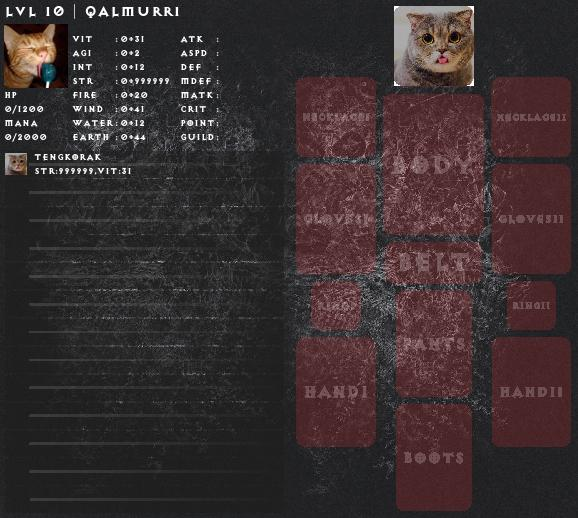
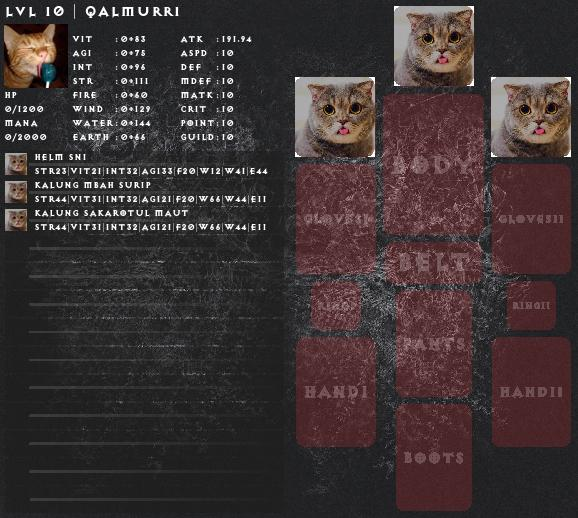
Add files via upload

diff --git a/cogs/commands/profile.py b/cogs/commands/profile.py
@@ -1,3 +1,8 @@
+
+
+
+
+
 import discord
 from discord import app_commands
 from discord.ext import commands
@@ -62,24 +67,70 @@ class profile(commands.Cog):
                     if check is not None and check :
                         with Image.open("assets/rpg/profile/default2.jpg") as a:
                             username = interaction.user.name
-
-                            e = ImageFont.truetype("assets/font/Diablo Heavy.ttf", 16)
-                            c = ImageFont.truetype("assets/font/Diablo Heavy.ttf", 10)
-
                             avatar = interaction.user.display_avatar
                             ava = Image.open(requests.get(avatar, stream=True).raw)
                             a.paste(ava.resize((64, 64)), (4, 24))
                             b = ImageDraw.Draw(a)
+                            e = ImageFont.truetype("assets/font/Diablo Heavy.ttf", 16)
+                            c = ImageFont.truetype("assets/font/Diablo Heavy.ttf", 10)
 
-                            usehead = player.get("game", {}).get("rpg", {}).get("use", {}).get("head", {}).get("name", None)
-                            headatk = player.get("game", {}).get("rpg", {}).get("use", {}).get("head", {}).get("str", None)
-                            headvit = player.get("game", {}).get("rpg", {}).get("use", {}).get("head", {}).get("vit", None)
-                            if usehead is not None:
-                                itemhead = Image.open(f"assets/rpg/item/head/{usehead}.png")
-                                iconhead = Image.open(f"assets/rpg/item/head/{usehead}.png")
-                                a.paste(itemhead.resize((80, 80)), (394, 6))
-                                a.paste(iconhead.resize((22, 22)), (5, 153))
-                                b.text((34, 151), f"{usehead}\nSTR:{headatk},VIT:{headvit} ", font=c, fill="white")
+                            head_data = player.get("game", {}).get("rpg", {}).get("use", {}).get("head", {})
+                            head_id = head_data.get("id_item", None)
+                            head_name = head_data.get("name", None)
+                            head_str = head_data.get("str", 0)
+                            head_vit = head_data.get("vit", 0)
+                            head_int = head_data.get("int", 0)
+                            head_agi = head_data.get("agi", 0)
+                            head_fire = head_data.get("fire", 0)
+                            head_water = head_data.get("water", 0)
+                            head_wind = head_data.get("wind", 0)
+                            head_earth = head_data.get("earth", 0)
+                            if head_id is not None:
+                                head_humbnail = Image.open(f"assets/rpg/item/head/{head_id}.png")
+                                head_icon = Image.open(f"assets/rpg/item/head/{head_id}.png")
+                                a.paste(head_humbnail.resize((80, 80)), (394, 6))
+                                a.paste(head_icon.resize((22, 22)), (5, 153))
+                                b.text((34, 151), f"{head_name}\nSTR{head_str}|VIT{head_vit}|INT{head_int}|AGI{head_agi}|F{head_fire}|W{head_water}|W{head_wind}|E{head_earth}", font=c, fill="white")
+                            else:
+                                pass
+
+                            necklace1_data = player.get("game", {}).get("rpg", {}).get("use", {}).get("necklace1", {})
+                            necklace1_id = necklace1_data.get("id_item", None)
+                            necklace1_name = necklace1_data.get("name", None)
+                            necklace1_str = necklace1_data.get("str", 0)
+                            necklace1_vit = necklace1_data.get("vit", 0)
+                            necklace1_int = necklace1_data.get("int", 0)
+                            necklace1_agi = necklace1_data.get("agi", 0)
+                            necklace1_fire = necklace1_data.get("fire", 0)
+                            necklace1_water = necklace1_data.get("water", 0)
+                            necklace1_wind = necklace1_data.get("wind", 0)
+                            necklace1_earth = necklace1_data.get("earth", 0)
+                            if necklace1_id is not None:
+                                necklace1_thumbnail = Image.open(f"assets/rpg/item/necklace/{head_id}.png")
+                                necklace1_icon = Image.open(f"assets/rpg/item/necklace/{head_id}.png")
+                                a.paste(necklace1_thumbnail.resize((80, 80)), (295, 77))
+                                a.paste(necklace1_icon.resize((22, 22)), (5, 181))
+                                b.text((34, 179), f"{necklace1_name}\nSTR{necklace1_str}|VIT{necklace1_vit}|INT{necklace1_int}|AGI{necklace1_agi}|F{necklace1_fire}|W{necklace1_water}|W{necklace1_wind}|E{necklace1_earth}", font=c, fill="white")
+                            else:
+                                pass
+
+                            necklace2_data = player.get("game", {}).get("rpg", {}).get("use", {}).get("necklace2", {})
+                            necklace2_id = necklace2_data.get("id_item", None)
+                            necklace2_name = necklace2_data.get("name", None)
+                            necklace2_str = necklace2_data.get("str", 0)
+                            necklace2_vit = necklace2_data.get("vit", 0)
+                            necklace2_int = necklace2_data.get("int", 0)
+                            necklace2_agi = necklace2_data.get("agi", 0)
+                            necklace2_fire = necklace2_data.get("fire", 0)
+                            necklace2_water = necklace2_data.get("water", 0)
+                            necklace2_wind = necklace2_data.get("wind", 0)
+                            necklace2_earth = necklace2_data.get("earth", 0)
+                            if necklace2_id is not None:
+                                necklace2_thumbnail = Image.open(f"assets/rpg/item/necklace/{necklace2_id}.png")
+                                necklace2_icon = Image.open(f"assets/rpg/item/necklace/{necklace2_id}.png")
+                                a.paste(necklace2_thumbnail.resize((80, 80)), (491, 77))
+                                a.paste(necklace2_icon.resize((22, 22)), (5, 209))
+                                b.text((34, 207), f"{necklace2_name}\nSTR{necklace2_str}|VIT{necklace2_vit}|INT{necklace2_int}|AGI{necklace2_agi}|F{necklace2_fire}|W{necklace2_water}|W{necklace2_wind}|E{necklace2_earth}", font=c, fill="white")
                             else:
                                 pass
 
@@ -91,8 +142,7 @@ class profile(commands.Cog):
                             usering1 = player.get("game", {}).get("rpg", {}).get("use", {}).get("ring1", {}).get("name", None)
                             usering2 = player.get("game", {}).get("rpg", {}).get("use", {}).get("ring2", {}).get("name", None)
                             useboots = player.get("game", {}).get("rpg", {}).get("use", {}).get("boots", {}).get("name", None)
-                            usenecklace = player.get("game", {}).get("rpg", {}).get("use", {}).get("necklace", {}).get("name", None)
-
+                            
                             bar = player.get("game", {}).get("rpg", {}).get("bar", {})
                             exp = bar.get("exp", {})
                             hp = bar.get("hp", {})
@@ -110,16 +160,6 @@ class profile(commands.Cog):
                             earth = attribut.get("earth", {})
                             wind = attribut.get("wind", {})
 
-                            head = player.get("game", {}).get("rpg", {}).get("use", {}).get("head", {})
-                            headstr = head.get("str", 0)
-                            headvit = head.get("vit", 0)
-                            headint = head.get("int", 0)
-                            headagi = head.get("agi", 0)
-                            headfire = head.get("fire", 0)
-                            headwater = head.get("water", 0)
-                            headwind = head.get("wind", 0)
-                            headearth = head.get("earth", 0)
-
                             body = player.get("game", {}).get("rpg", {}).get("use", {}).get("body", {})
                             bodystr = body.get("str", 0)
                             bodyvit = body.get("vit", 0)
@@ -129,7 +169,6 @@ class profile(commands.Cog):
                             bodywater = body.get("water", 0)
                             bodywind = body.get("wind", 0)
                             bodyearth = body.get("earth", 0)
-
                             hand1 = player.get("game", {}).get("rpg", {}).get("use", {}).get("hand1", {})
                             hand1str = hand1.get("str", 0)
                             hand1vit = hand1.get("vit", 0)
@@ -139,7 +178,6 @@ class profile(commands.Cog):
                             hand1water = hand1.get("water", 0)
                             hand1wind = hand1.get("wind", 0)
                             hand1earth = hand1.get("earth", 0)
-
                             hand2 = player.get("game", {}).get("rpg", {}).get("use", {}).get("hand2", {})
                             hand2str = hand2.get("str", 0)
                             hand2vit = hand2.get("vit", 0)
@@ -149,7 +187,6 @@ class profile(commands.Cog):
                             hand2water = hand2.get("water", 0)
                             hand2wind = hand2.get("wind", 0)
                             hand2earth = hand2.get("earth", 0)
-
                             belt = player.get("game", {}).get("rpg", {}).get("use", {}).get("belt", {})
                             beltstr = belt.get("str", 0)
                             beltvit = belt.get("vit", 0)
@@ -159,7 +196,6 @@ class profile(commands.Cog):
                             beltwater = belt.get("water", 0)
                             beltwind = belt.get("wind", 0)
                             beltearth = belt.get("earth", 0)
-
                             gloves = player.get("game", {}).get("rpg", {}).get("use", {}).get("belt", {})
                             glovesstr = gloves.get("str", 0)
                             glovesvit = gloves.get("vit", 0)
@@ -169,7 +205,6 @@ class profile(commands.Cog):
                             gloveswater = gloves.get("water", 0)
                             gloveswind = gloves.get("wind", 0)
                             glovesearth = gloves.get("earth", 0)
-
                             ring1 = player.get("game", {}).get("rpg", {}).get("use", {}).get("ring1", {})
                             ring1str = ring1.get("str", 0)
                             ring1vit = ring1.get("vit", 0)
@@ -179,7 +214,6 @@ class profile(commands.Cog):
                             ring1water = ring1.get("water", 0)
                             ring1wind = ring1.get("wind", 0)
                             ring1earth = ring1.get("earth", 0)
-
                             ring2 = player.get("game", {}).get("rpg", {}).get("use", {}).get("ring2", {})
                             ring2str = ring2.get("str", 0)
                             ring2vit = ring2.get("vit", 0)
@@ -189,7 +223,6 @@ class profile(commands.Cog):
                             ring2water = ring2.get("water", 0)
                             ring2wind = ring2.get("wind", 0)
                             ring2earth = ring2.get("earth", 0)
-
                             boots = player.get("game", {}).get("rpg", {}).get("use", {}).get("boots", {})
                             bootsstr = boots.get("str", 0)
                             bootsvit = boots.get("vit", 0)
@@ -200,40 +233,25 @@ class profile(commands.Cog):
                             bootswind = boots.get("wind", 0)
                             bootsearth = boots.get("earth", 0)
 
-                            necklace = player.get("game", {}).get("rpg", {}).get("use", {}).get("necklace", {})
-                            necklacestr = necklace.get("str", 0)
-                            necklacevit = necklace.get("vit", 0)
-                            necklaceint = necklace.get("int", 0)
-                            necklaceagi = necklace.get("agi", 0)
-                            necklacefire = necklace.get("fire", 0)
-                            necklacewater = necklace.get("water", 0)
-                            necklacewind = necklace.get("wind", 0)
-                            necklaceearth = necklace.get("earth", 0)
+                            statsvitality = head_vit + bodyvit + hand1vit + hand2vit + beltvit + glovesvit + ring1vit + ring2vit + bootsvit + necklace1_vit + necklace2_vit
+                            statsagility = head_agi + bodyagi + hand1agi + hand2agi + beltagi + glovesagi + ring1agi + ring2agi + bootsagi + necklace1_agi + necklace2_agi
+                            statsinteligent = head_int + bodyint + hand1int + hand2int + beltint + glovesint + ring1int + ring2int + bootsint + necklace1_int + necklace2_int
+                            statsstrength = head_str + bodystr + hand1str + hand2str + beltstr + glovesstr + ring1str + ring2str + bootsstr + necklace1_str + necklace2_str
+                            statsfire = head_fire + bodyfire + hand1fire + hand2fire + beltfire + glovesfire + ring1fire + ring2fire + bootsfire + necklace1_fire + necklace2_fire
+                            statswater = head_water + bodywater + hand1water + hand2water + beltwater + gloveswater + ring1water + ring2water + bootswater + necklace1_water + necklace2_water
+                            statswind = head_wind + bodywind + hand1wind + hand2wind + beltwind + gloveswind + ring1wind + ring2wind + bootswind + necklace1_wind + necklace2_wind
+                            statsearth = head_earth + bodyearth +hand1earth + hand2earth + beltearth + glovesearth + ring1earth + ring2earth + bootsearth + necklace1_earth  + necklace2_earth
 
-                            statsvitality = headvit + bodyvit + hand1vit + hand2vit + beltvit + glovesvit + ring1vit + ring2vit + bootsvit + necklacevit
-                            statsagility = headagi + bodyagi + hand1agi + hand2agi + beltagi + glovesagi + ring1agi + ring2agi + bootsagi + necklaceagi
-                            statsinteligent = headint + bodyint + hand1int + hand2int + beltint + glovesint + ring1int + ring2int + bootsint + necklaceint
-                            statsstrength = headstr + bodystr + hand1str + hand2str + beltstr + glovesstr + ring1str + ring2str + bootsstr + necklaceagi
-                            statsfire = headfire + bodyfire + hand1fire + hand2fire + beltfire + glovesfire + ring1fire + ring2fire + bootsfire + necklacefire
-                            statswater = headwater + bodywater + hand1water + hand2water + beltwater + gloveswater + ring1water + ring2water + bootswater + necklacewater
-                            statswind = headwind + bodywind + hand1wind + hand2wind + beltwind + gloveswind + ring1wind + ring2wind + bootswind + necklacewind
-                            statsearth = headearth + bodyearth +hand1earth + hand2earth + beltearth + glovesearth + ring1earth + ring2earth + bootsearth + necklaceearth
-
-                            
-                            
+                            attack = statsagility*(1+(2/100))+statsstrength*(1+(4/100))
 
                             b.text((4, 2), f"LVL 10 | {username}", font=e, fill="white")
-
-                            
                             b.text((4, 89), f"HP\n{hp}/1200\nMANA\n{mana}/2000", font=c, fill="white")
                             b.text((72, 33), f"VIT\nAGI\nINT\nSTR\nFIRE\nWIND\nWATER\nEARTH", font=c, fill="white")
                             b.text((115, 33), ":\n:\n:\n:\n:\n:\n:\n:", font=c, fill="white")
                             b.text((120, 33), f"{vitality}+{statsvitality}\n{agility}+{statsagility}\n{inteligent}+{statsinteligent}\n{strength}+{statsstrength}\n{fire}+{statsfire}\n{wind}+{statswind}\n{water}+{statswater}\n{earth}+{statsearth}", font=c, fill="white")
                             b.text((180, 33), f"ATK\nASPD\nDEF\nMDEF\nMATK\nCRIT\nPOINT\nGUILD", font=c, fill="white")
                             b.text((216, 33), ":\n:\n:\n:\n:\n:\n:\n:", font=c, fill="white")
-
-
-                            #b.text((250, 5), f"Head: {usehead}\nBody: {usebody}\nHand1: {usehand1}\nHand2: {usehand2}\nBelt: {usebelt}\nGloves: {usegloves}\nRing1: {usering1}\nRing2: {usering2}\nBoots: {useboots}\nNecklace: {usenecklace}", font=c, fill="white")
+                            b.text((221, 33), f"{attack}\n10\n10\n10\n10\n10\n10\n10", font=c, fill="white")
 
                             a.save(f"stats/rpg/profile/{interaction.guild.id}.jpg")
                             await interaction.response.send_message(file=discord.File(f"stats/rpg/profile/{interaction.guild.id}.jpg"))

diff --git a/rpg/commands/equip.py b/rpg/commands/equip.py
@@ -8,8 +8,8 @@ class equip(commands.Cog):
     def __init__(self, bot):
         self.bot = bot
 
-    @app_commands.command(name="equip", description="Equip item")
-    async def equip(self, interaction:discord.Interaction):
+    @app_commands.command(name="equip_head", description="equip_head")
+    async def equip_head(self, interaction:discord.Interaction):
         player = await db.player[f"{interaction.guild.id}"].find_one({"game.rpg.status": True})
         if player is None:
             await interaction.response.send_message("Kamu belum mempunyai game rpg")
@@ -21,13 +21,14 @@ class equip(commands.Cog):
                     {
                         "$set": {
                             "game.rpg.use.head": {
-                                "id": 21,
-                                "name": "TENGKORAK",
+                                "id_item": "co001",
+                                "name": "HELM SNI",
                                 "class": "rare",
-                                "str": 999999,
-                                "vit": 31,
-                                "int": 12,
-                                "agi": 2,
+                                "price": 1200,
+                                "str": 23,
+                                "vit": 21,
+                                "int": 32,
+                                "agi": 33,
                                 "fire": 20,
                                 "wind": 41,
                                 "water": 12,
@@ -36,7 +37,69 @@ class equip(commands.Cog):
                             }
                         }
                     )
-            await interaction.response.send_message("Tengkorak di kepala sudah terpasang")
+            await interaction.response.send_message("item head di kepala sudah terpasang")
+
+    @app_commands.command(name="equip_necklace1", description="equip_necklace1")
+    async def equip_necklace1(self, interaction:discord.Interaction):
+        player = await db.player[f"{interaction.guild.id}"].find_one({"game.rpg.status": True})
+        if player is None:
+            await interaction.response.send_message("Kamu belum mempunyai game rpg")
+        else:
+            await db.player[f"{interaction.guild.id}"].update_one(
+                {
+                    "_id": interaction.user.id
+                    },
+                    {
+                        "$set": {
+                            "game.rpg.use.necklace1": {
+                                "id_item": "co001",
+                                "name": "KALUNG MBAH SURIP",
+                                "class": "rare",
+                                "price": 1200,
+                                "str": 44,
+                                "vit": 31,
+                                "int": 32,
+                                "agi": 21,
+                                "fire": 20,
+                                "wind": 44,
+                                "water": 66,
+                                "earth": 11,
+                                }
+                            }
+                        }
+                    )
+            await interaction.response.send_message("necklace1 sudah terpasang")
+
+    @app_commands.command(name="equip_necklace2", description="equip_necklace2")
+    async def equip_necklace2(self, interaction:discord.Interaction):
+        player = await db.player[f"{interaction.guild.id}"].find_one({"game.rpg.status": True})
+        if player is None:
+            await interaction.response.send_message("Kamu belum mempunyai game rpg")
+        else:
+            await db.player[f"{interaction.guild.id}"].update_one(
+                {
+                    "_id": interaction.user.id
+                    },
+                    {
+                        "$set": {
+                            "game.rpg.use.necklace2": {
+                                "id_item": "co001",
+                                "name": "KALUNG SAKAROTUL MAUT",
+                                "class": "rare",
+                                "price": 1200,
+                                "str": 44,
+                                "vit": 31,
+                                "int": 32,
+                                "agi": 21,
+                                "fire": 20,
+                                "wind": 44,
+                                "water": 66,
+                                "earth": 11,
+                                }
+                            }
+                        }
+                    )
+            await interaction.response.send_message("necklace2 sudah terpasang")
 
 async def setup(bot):
     await bot.add_cog(equip(bot))

diff --git a/rpg/commands/unequip.py b/rpg/commands/unequip.py
@@ -8,10 +8,20 @@ class unequip(commands.Cog):
     def __init__(self, bot):
         self.bot = bot
 
-    @app_commands.command(name="unequip", description="unequip item")
-    async def unequip(self, interaction:discord.Interaction):
+    @app_commands.command(name="unequip_head", description="unequip_head")
+    async def unequip_head(self, interaction:discord.Interaction):
         await db.player[f"{interaction.guild.id}"].update_one({"_id": interaction.user.id}, {"$unset": {"game.rpg.use.head": 1}})
         await interaction.response.send_message("Tengkorak di kepala sudah di lepas")
+
+    @app_commands.command(name="unequip_necklace1", description="unequip_necklace1")
+    async def unequip_necklace1(self, interaction:discord.Interaction):
+        await db.player[f"{interaction.guild.id}"].update_one({"_id": interaction.user.id}, {"$unset": {"game.rpg.use.necklace1": 1}})
+        await interaction.response.send_message("kalung di badan sudah di lepas")
+
+    @app_commands.command(name="unequip_necklace2", description="unequip_necklace2")
+    async def unequip_necklace2(self, interaction:discord.Interaction):
+        await db.player[f"{interaction.guild.id}"].update_one({"_id": interaction.user.id}, {"$unset": {"game.rpg.use.necklace2": 1}})
+        await interaction.response.send_message("kalung di badan sudah di lepas")
 
 async def setup(bot):
     await bot.add_cog(unequip(bot))

diff --git a/main.py b/main.py
@@ -12,14 +12,10 @@ async def on_ready():
 async def setup_hook() -> None:
     extensions = [
         'cogs.activity.message',
-
         'cogs.commands.profile',
         'cogs.commands.join',
-        
         'rpg.commands.equip',
-        'rpg.commands.equip1',
-        'rpg.commands.unequip',
-        'rpg.commands.unequip1',
+        'rpg.commands.unequip'
         ]
     
     for extension in extensions:
